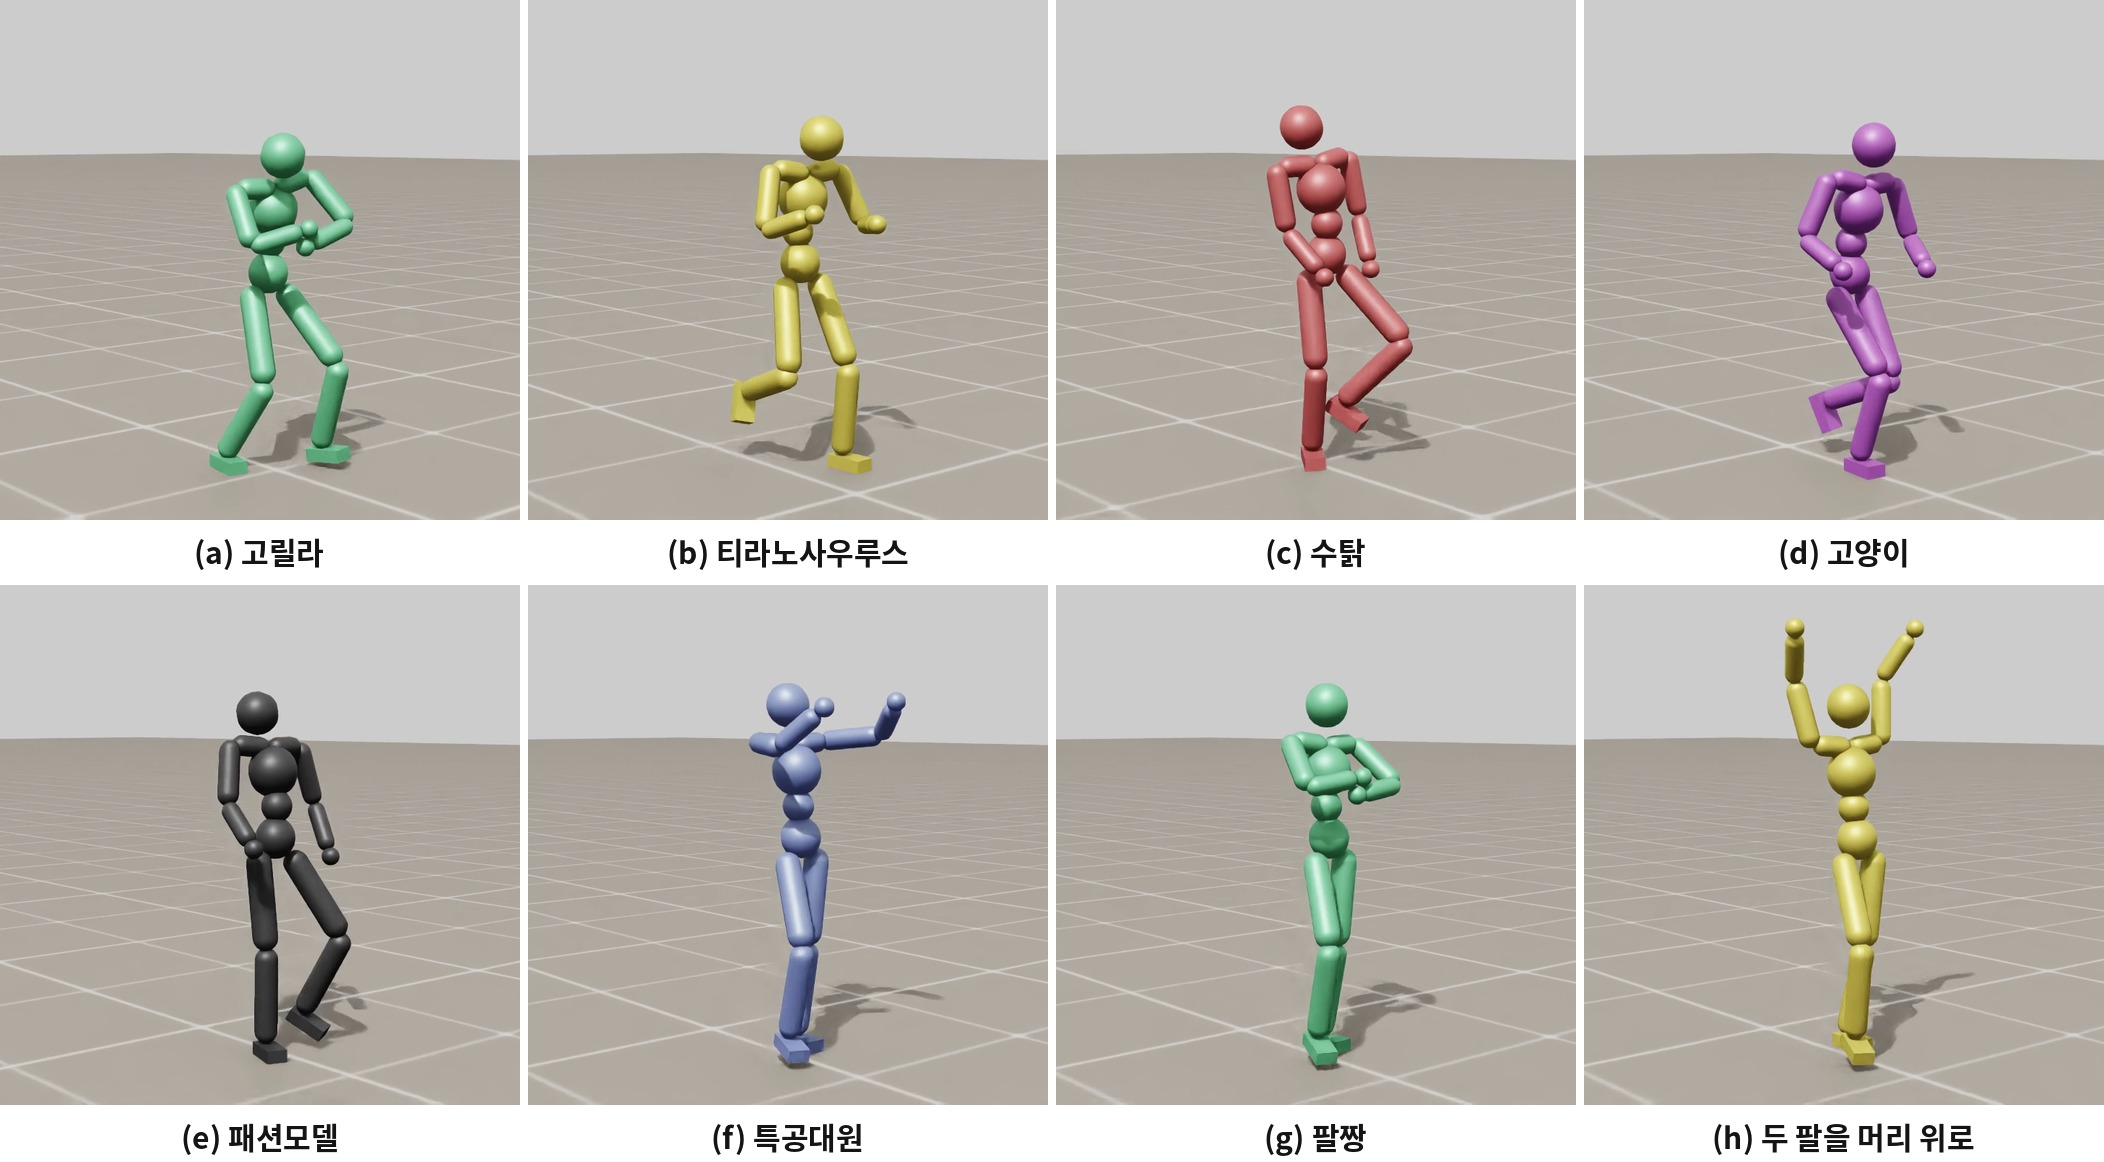
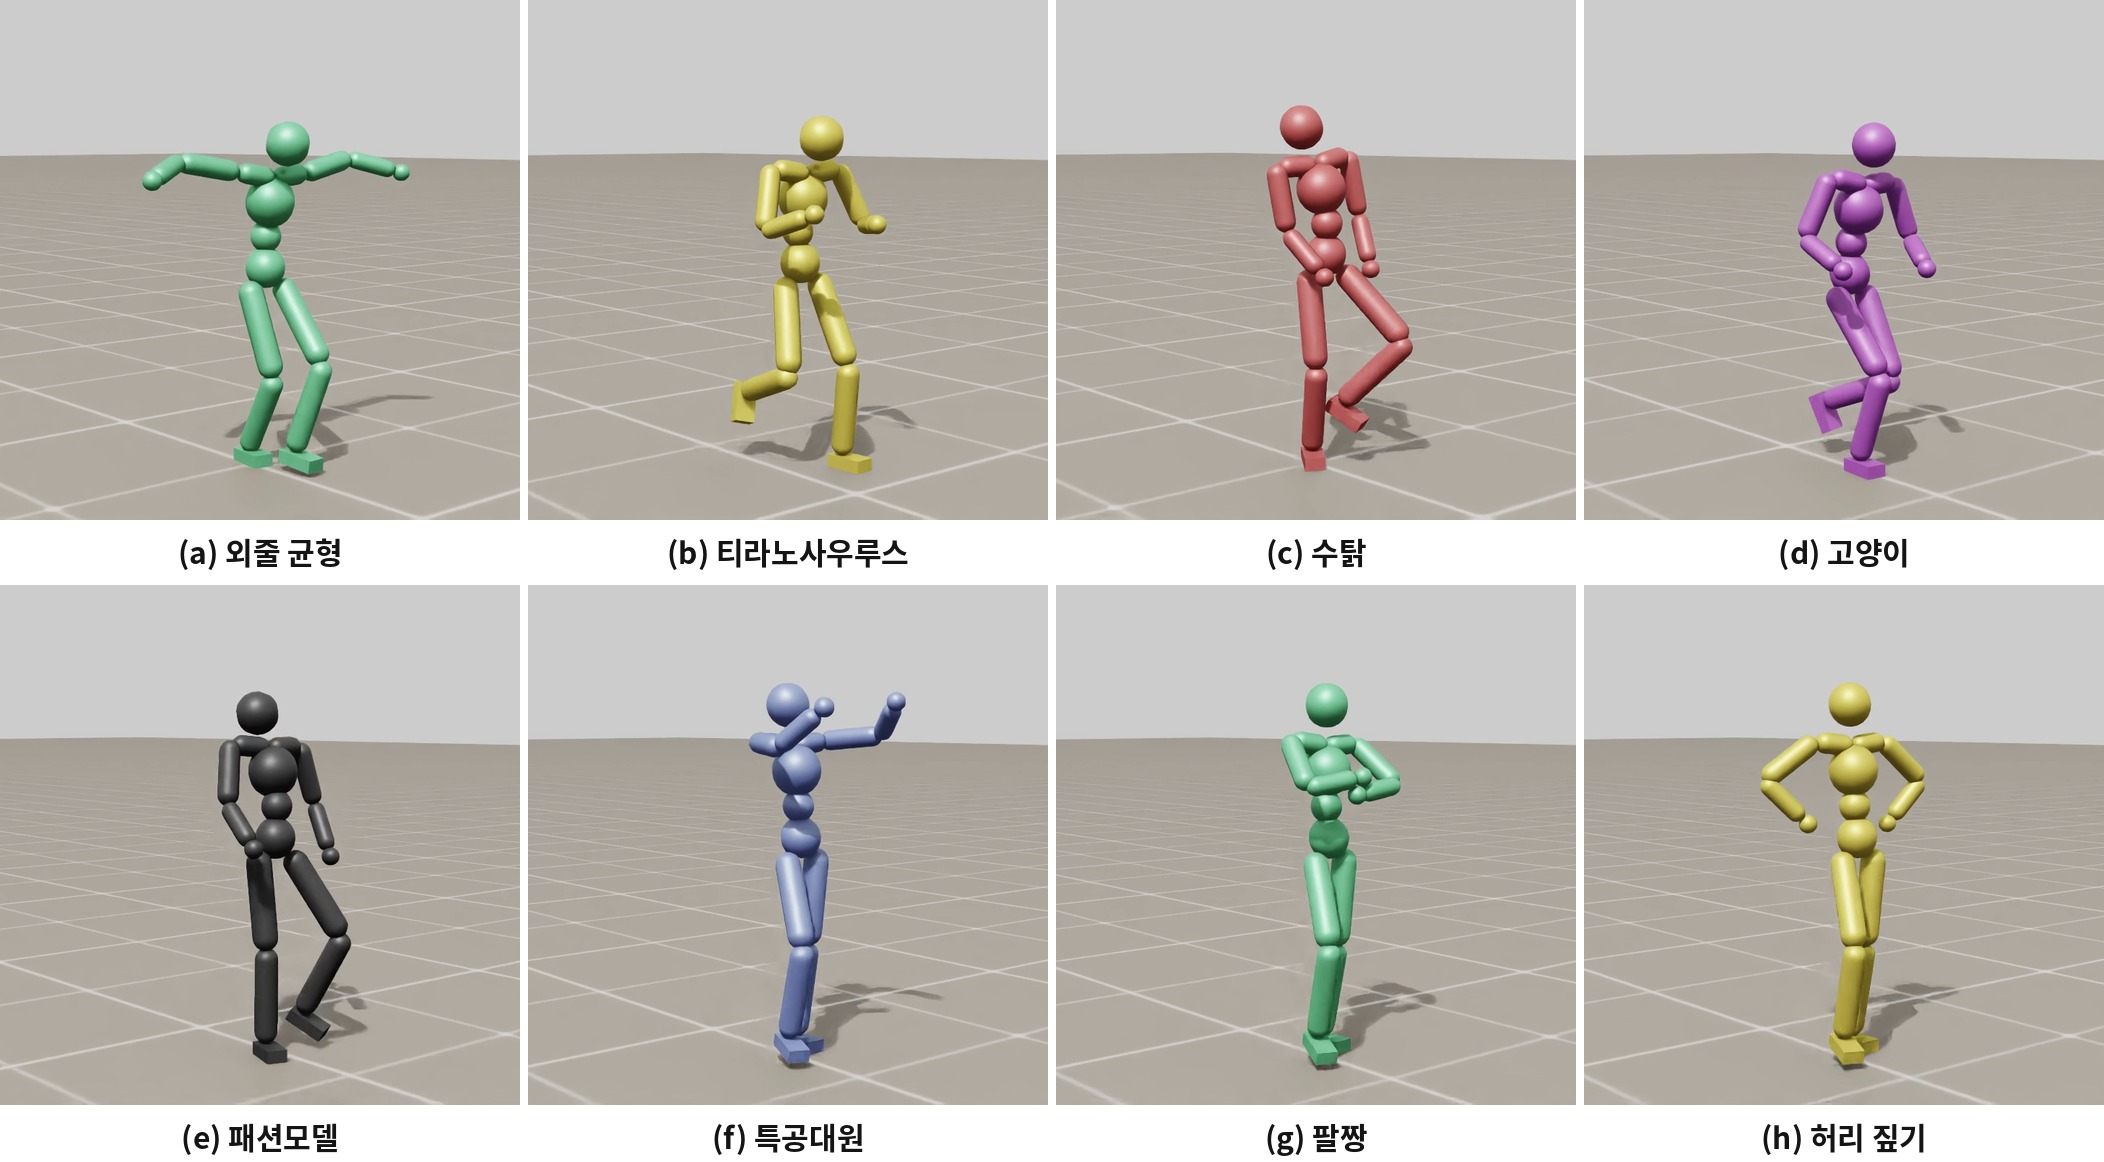
README: final results with the human study, style transforms table, updated media; survey server

diff --git a/experiments/t2m_compare/serve_study.py b/experiments/t2m_compare/serve_study.py
@@ -1,0 +1,121 @@
+#!/usr/bin/env python3
+"""Serve the blind survey page from this computer and collect the answers, so that a rater needs only a link.
+
+    ./experiments/t2m_compare/serve_study.py [--port 8765] [--study study]
+
+Serves <study>/survey (index.html and the videos, with byte ranges so that phones play them) and nothing else: the
+answer key in stimuli.json stays outside that folder. The page is sent with a few added lines of script that post the
+answers when the rater reaches the end and again on "결과 파일 저장"; the file download of the page still works. Each
+submission is written to <study>/answers/study_answers_<id>_<token>.csv, where the token is a random word the page
+keeps in the rater's browser: two people who type the same id stay two raters, and one person who submits twice
+replaces their own file. The rater column is rewritten to <id>_<token> to match. Nothing is uploaded anywhere; the
+link works for whoever can reach this computer (same network, or a tunnel the user chooses to open).
+"""
+import argparse
+import os
+import re
+from http.server import SimpleHTTPRequestHandler, ThreadingHTTPServer
+from pathlib import Path
+
+HERE = Path(__file__).resolve().parent
+HEADER = "rater,key,question,choice,position,seconds"
+HOOK = """
+<script>
+(function () {
+  let token = "";
+  try { token = localStorage.getItem("study_token") || ""; } catch (e) {}
+  if (!token) { token = Math.random().toString(36).slice(2, 8); try { localStorage.setItem("study_token", token); } catch (e) {} }
+  function submit() {
+    if (!rater) return;
+    fetch("submit?id=" + encodeURIComponent(rater) + "&token=" + token, {method: "POST", body: csv()})
+      .then(r => { if (r.ok) note("응답이 제출되었습니다. 창을 닫아도 됩니다."); else note("제출에 실패했습니다. 결과 파일을 저장해 전달해 주세요."); })
+      .catch(() => note("제출에 실패했습니다. 결과 파일을 저장해 전달해 주세요."));
+  }
+  function note(text) {
+    let p = document.getElementById("submitted");
+    if (!p) { p = document.createElement("p"); p.id = "submitted"; p.style.fontWeight = "bold"; document.getElementById("save").parentNode.before(p); }
+    p.textContent = text;
+  }
+  document.getElementById("save").addEventListener("click", submit);
+  document.getElementById("next").addEventListener("click", () => { if (pos >= ITEMS.length - 1) setTimeout(submit, 50); });
+})();
+</script>
+"""
+
+
+class Handler(SimpleHTTPRequestHandler):
+    answers: Path
+
+    def log_message(self, fmt, *args):
+        if args and "submit" in str(args[0]):
+            super().log_message(fmt, *args)
+
+    def do_GET(self):
+        path = self.path.split("?")[0]
+        if path in ("/", "/index.html"):
+            page = Path(self.directory, "index.html").read_text(encoding="utf-8").replace("</body>", HOOK + "</body>")
+            body = page.encode("utf-8")
+            self.send_response(200)
+            self.send_header("Content-Type", "text/html; charset=utf-8")
+            self.send_header("Content-Length", str(len(body)))
+            self.send_header("Cache-Control", "no-store")
+            self.end_headers()
+            self.wfile.write(body)
+            return
+        span = re.fullmatch(r"bytes=(\d*)-(\d*)", self.headers.get("Range", ""))
+        file = Path(self.translate_path(path))
+        if span and file.is_file():
+            size = file.stat().st_size
+            start = int(span.group(1)) if span.group(1) else max(size - int(span.group(2) or 0), 0)
+            end = min(int(span.group(2)), size - 1) if span.group(1) and span.group(2) else size - 1
+            if start > end:
+                self.send_error(416)
+                return
+            self.send_response(206)
+            self.send_header("Content-Type", self.guess_type(str(file)))
+            self.send_header("Content-Range", f"bytes {start}-{end}/{size}")
+            self.send_header("Content-Length", str(end - start + 1))
+            self.send_header("Accept-Ranges", "bytes")
+            self.end_headers()
+            with file.open("rb") as f:
+                f.seek(start)
+                self.wfile.write(f.read(end - start + 1))
+            return
+        super().do_GET()
+
+    def do_POST(self):
+        match = re.fullmatch(r"/submit\?id=([^&]*)&token=([0-9a-z]{1,12})", self.path)
+        length = int(self.headers.get("Content-Length") or 0)
+        if not match or not 0 < length <= 20000:
+            self.send_error(400)
+            return
+        from urllib.parse import unquote
+        rater = re.sub(r"[^0-9A-Za-z_-]", "_", unquote(match.group(1)))[:20] or "rater"
+        name = f"{rater}_{match.group(2)}"
+        lines = self.rfile.read(length).decode("utf-8-sig", "replace").replace("\r\n", "\n").strip().split("\n")
+        rows = [line.split(",") for line in lines[1:]]
+        if lines[0].strip() != HEADER or not rows or any(len(r) != 6 for r in rows):
+            self.send_error(400)
+            return
+        text = "\r\n".join([HEADER] + [",".join([f'"{name}"'] + r[1:]) for r in rows]) + "\r\n"
+        self.answers.mkdir(exist_ok=True)
+        (self.answers / f"study_answers_{name}.csv").write_text(text, encoding="utf-8")
+        self.send_response(204)
+        self.end_headers()
+
+
+def main():
+    parser = argparse.ArgumentParser(description=__doc__.split("\n")[0])
+    parser.add_argument("--port", type=int, default=8765)
+    parser.add_argument("--study", default="study")
+    args = parser.parse_args()
+    study = HERE / args.study
+    Handler.answers = study / "answers"
+    os.chdir(study / "survey")
+    server = ThreadingHTTPServer(("0.0.0.0", args.port), lambda *a: Handler(*a, directory=str(study / "survey")))
+    print(f"survey on port {args.port}; answers go to {Handler.answers}", flush=True)
+    server.serve_forever()
+
+
+if __name__ == "__main__":
+    main()

diff --git a/docs/make_media.py b/docs/make_media.py
@@ -49,12 +49,13 @@ def main():
     os.makedirs(OUT, exist_ok=True)
     sizes = {}
     # set 7 styles, each policy filmed alone from 40 degrees off its path (1920 x 720): the middle square
-    for key in ["N2", "N4", "N5", "N6", "P5", "P6", "F2", "F4"]:
-        ims = frames(os.path.join(ms.SET7, f"fig_{key}_quarter.mp4"), 0.0, 4.0, 12)
+    later = {"M4": "cand_M4_quarter.mp4", "F3": "cand_F3y_quarter.mp4"}  # filmed after the first six
+    for key in ["M4", "N4", "N5", "N6", "P5", "P6", "F2", "F3"]:
+        ims = frames(os.path.join(ms.SET7, later.get(key, f"fig_{key}_quarter.mp4")), 0.0, 4.0, 12)
         ims = [im.crop((600, 0, 1320, 720)).resize((260, 260), Image.LANCZOS) for im in ims]
         sizes[f"style_{key}"] = save_gif(ims, os.path.join(OUT, f"style_{key}.gif"), 12)
     # the same command by the four methods (human-study films, side view on top of each 640 x 960 film)
-    for key, folder in [("set8_Q2", "videos"), ("set9_S2", "videos_report")]:
+    for key, folder in [("set8_Q2", "videos"), ("set7_P5", "videos")]:
         for method in ["ours", "momask", "t2mgpt", "mdm"]:
             ims = frames(os.path.join(STUDY, folder, f"{key}_{method}.mp4"), 0.0, 4.0, 12)
             ims = [im.crop((170, 70, 470, 440)).resize((180, 222), Image.LANCZOS) for im in ims]
@@ -71,6 +72,8 @@ def main():
     for f in ["fig1_architecture.png", "fig2_styles.jpg", "fig3_compare.jpg", "fig4_onesided.jpg", "fig5_chains.jpg",
               "chart_overview.png", "chart_numeric.png"]:  # the charts come from reports/final/make_charts.py
         shutil.copy(os.path.join(ROOT, "reports", "final", "figures", f), os.path.join(OUT, f))
+    # the human study as drawn for the poster (reports/final/make_charts.py)
+    shutil.copy(os.path.join(ROOT, "reports", "poster", "assets", "chart_human_poster.png"), os.path.join(OUT, "chart_human.png"))
     for k, v in sizes.items():
         print(f"{k:24s} {v:5.2f} MB")
     print("total MB", round(sum(os.path.getsize(os.path.join(OUT, f)) for f in os.listdir(OUT)) / 1e6, 1))
